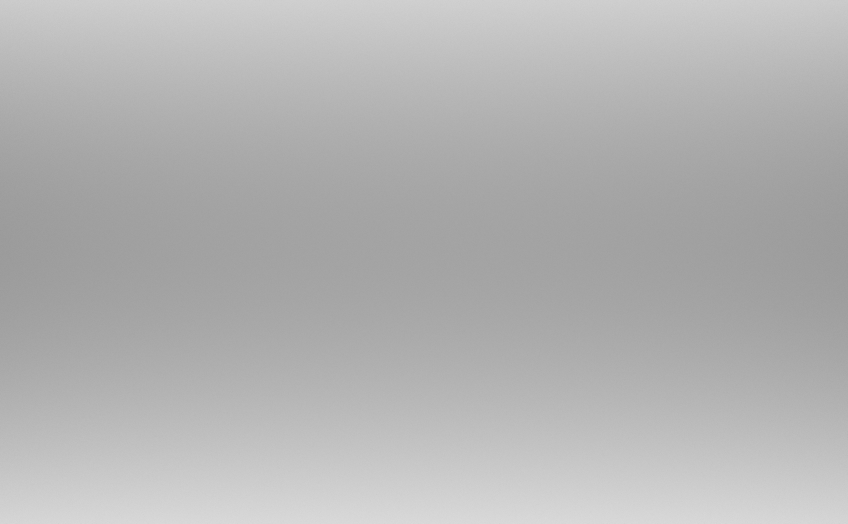
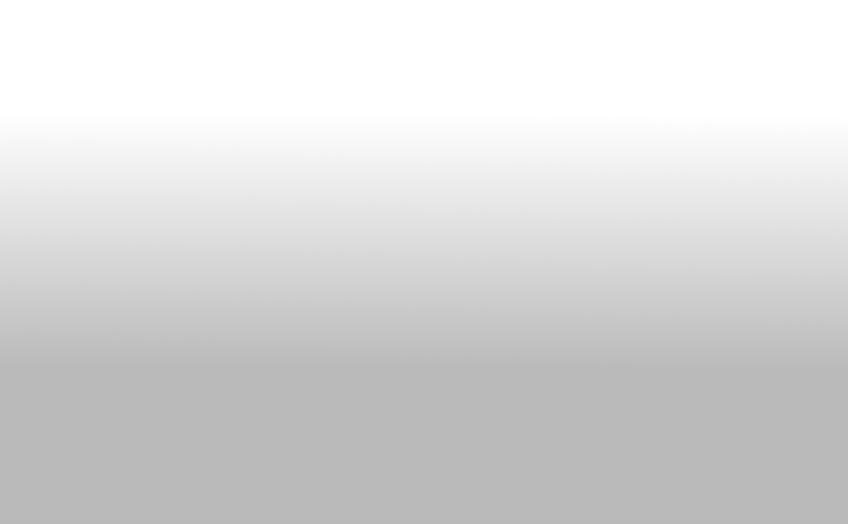
Change background on level complete
Also improved brick image

diff --git a/Breakdown/Assets/Scripts/UIManager.cs b/Breakdown/Assets/Scripts/UIManager.cs
@@ -19,8 +19,9 @@ public class UIManager : MonoBehaviour
     private void Start()
     {
         GameManager.OnLifeLost += OnLifeLost;
-        GameManager.OnLifeGained += OnLifeGained;
+//        GameManager.OnLifeGained += OnLifeGained;
         Paddle.OnPaddleHit += OnPaddleHit;
+        BricksManager.OnLevelComplete += OnLevelComplete;
         //        Block.OnBlockHit += OnBlockHit;
         UpdateScoreText(0);
     }
@@ -34,13 +35,18 @@ public class UIManager : MonoBehaviour
 
     private void OnLifeLost(int remainingLives)
     {
-        int background_num = 0;
+
         string txt = "LIVES: " + remainingLives.ToString();
         LivesText.text = txt;
 
-        if (backgrounds.Length > 0)
+
+    }
+
+    private void OnLevelComplete()
+    {
+         if (backgrounds.Length > 0)
         {
-            background_num = UnityEngine.Random.Range(0, backgrounds.Length);
+            int background_num = UnityEngine.Random.Range(0, backgrounds.Length);
             spriteRenderer.sprite = backgrounds[background_num];
         }
     }
@@ -73,8 +79,10 @@ public class UIManager : MonoBehaviour
     {
         GameManager.OnLifeLost -= OnLifeLost;
         Paddle.OnPaddleHit -= OnPaddleHit;
-        GameManager.OnLifeGained -= OnLifeGained;
-//        Block.OnBlockHit -= OnBlockHit;
+        BricksManager.OnLevelComplete -= OnLevelComplete;
+
+        //        GameManager.OnLifeGained -= OnLifeGained;
+        //        Block.OnBlockHit -= OnBlockHit;
     }
 
 }

diff --git a/Breakdown/Assets/Scripts/BricksManager.cs b/Breakdown/Assets/Scripts/BricksManager.cs
@@ -34,6 +34,9 @@ public class BricksManager : MonoBehaviour
 
     private GameObject bricksContainer;
 
+    public static event Action OnLevelComplete;
+
+
     public Brick brickPrefab;
 
     public Sprite[] Sprites;
@@ -72,6 +75,7 @@ public class BricksManager : MonoBehaviour
     {
         this.levelNum = level;
         this.ClearRemainingBricks();
+        OnLevelComplete?.Invoke();
         this.GenerateBricks();
     }
 

diff --git a/Breakdown/Assets/Scripts/GameManager.cs b/Breakdown/Assets/Scripts/GameManager.cs
@@ -30,7 +30,7 @@ public class GameManager : MonoBehaviour
     public bool IsGameStarted { get; set; }
 
     public static event Action<int> OnLifeLost;
-    public static event Action<int> OnLifeGained;
+//    public static event Action<int> OnLifeGained;
 
 #if (PI)
     public GameObject LeftWall;
